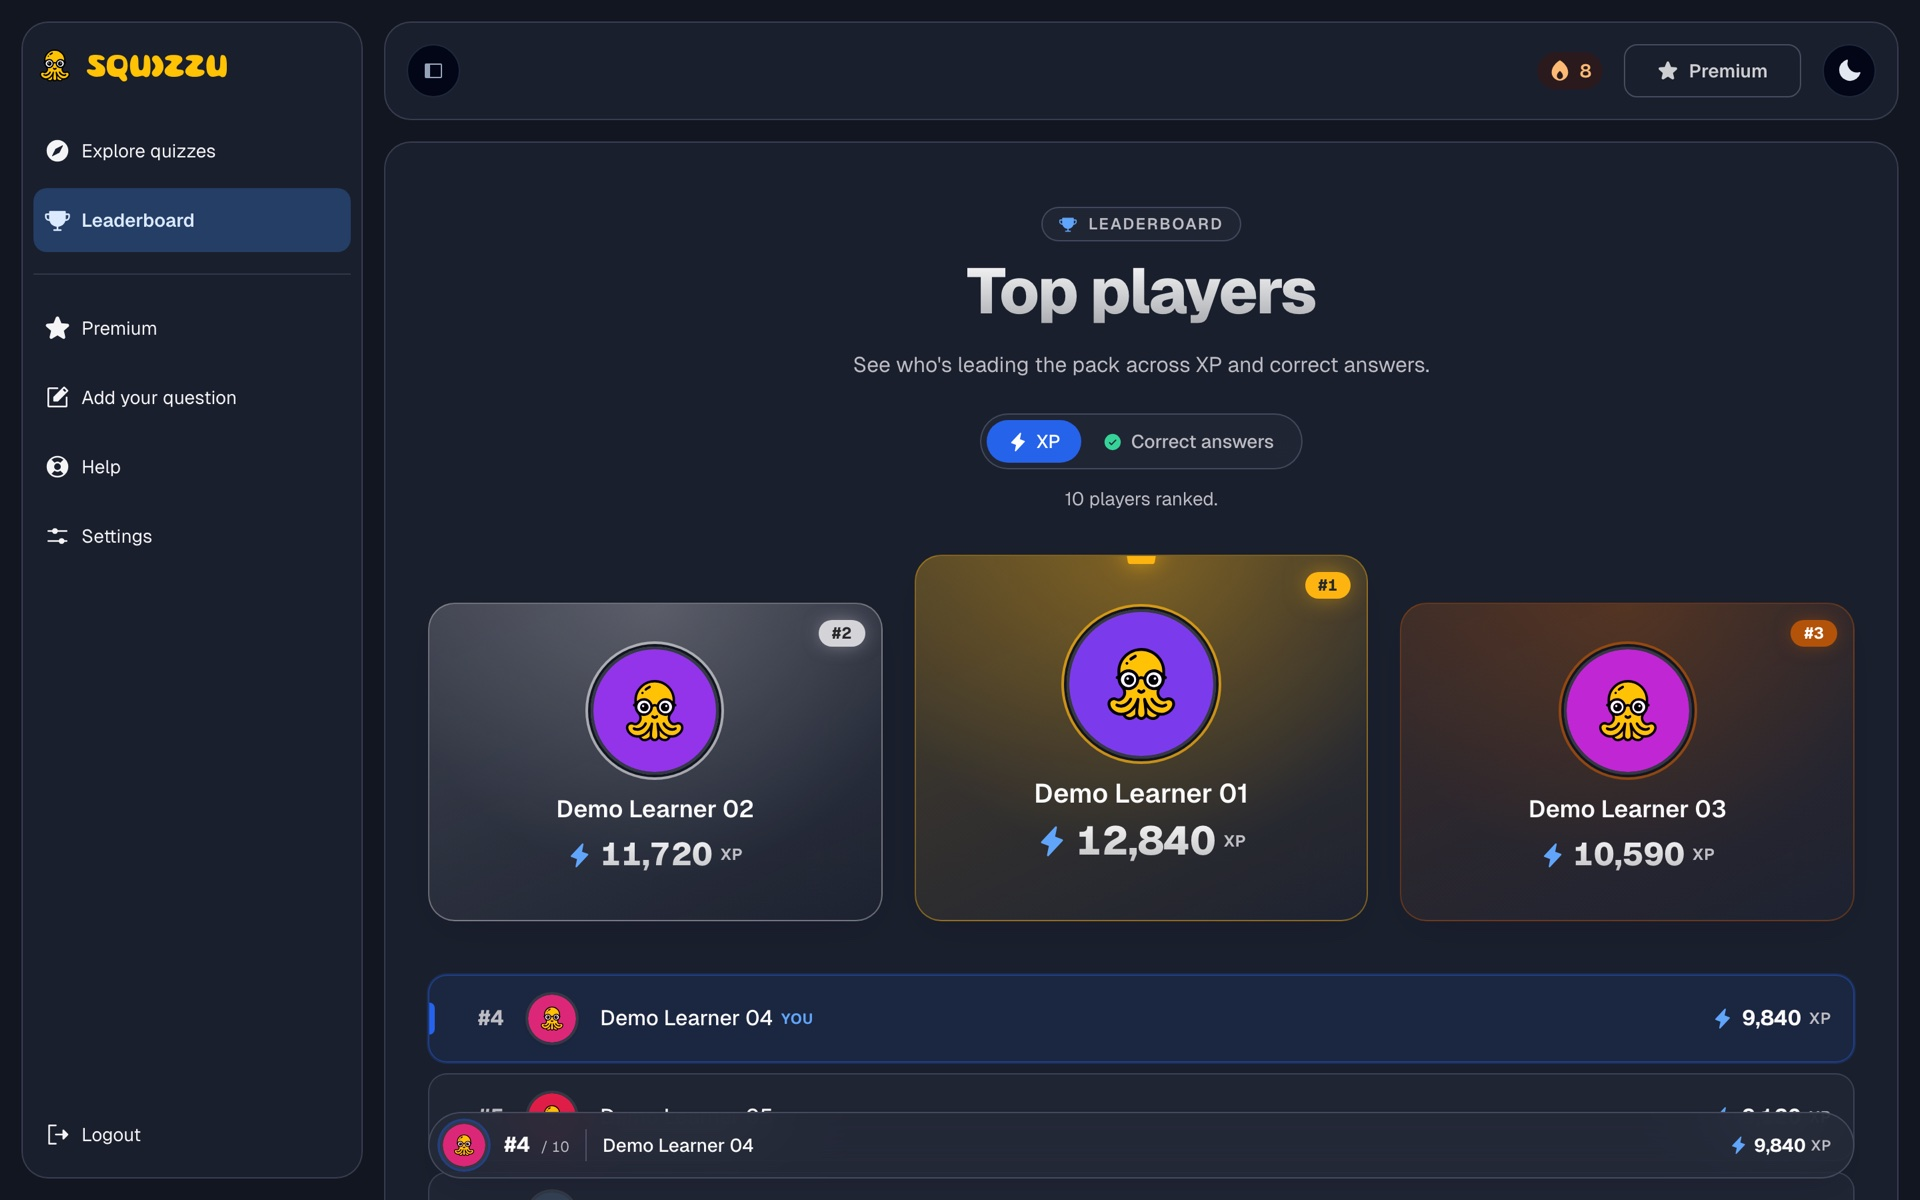
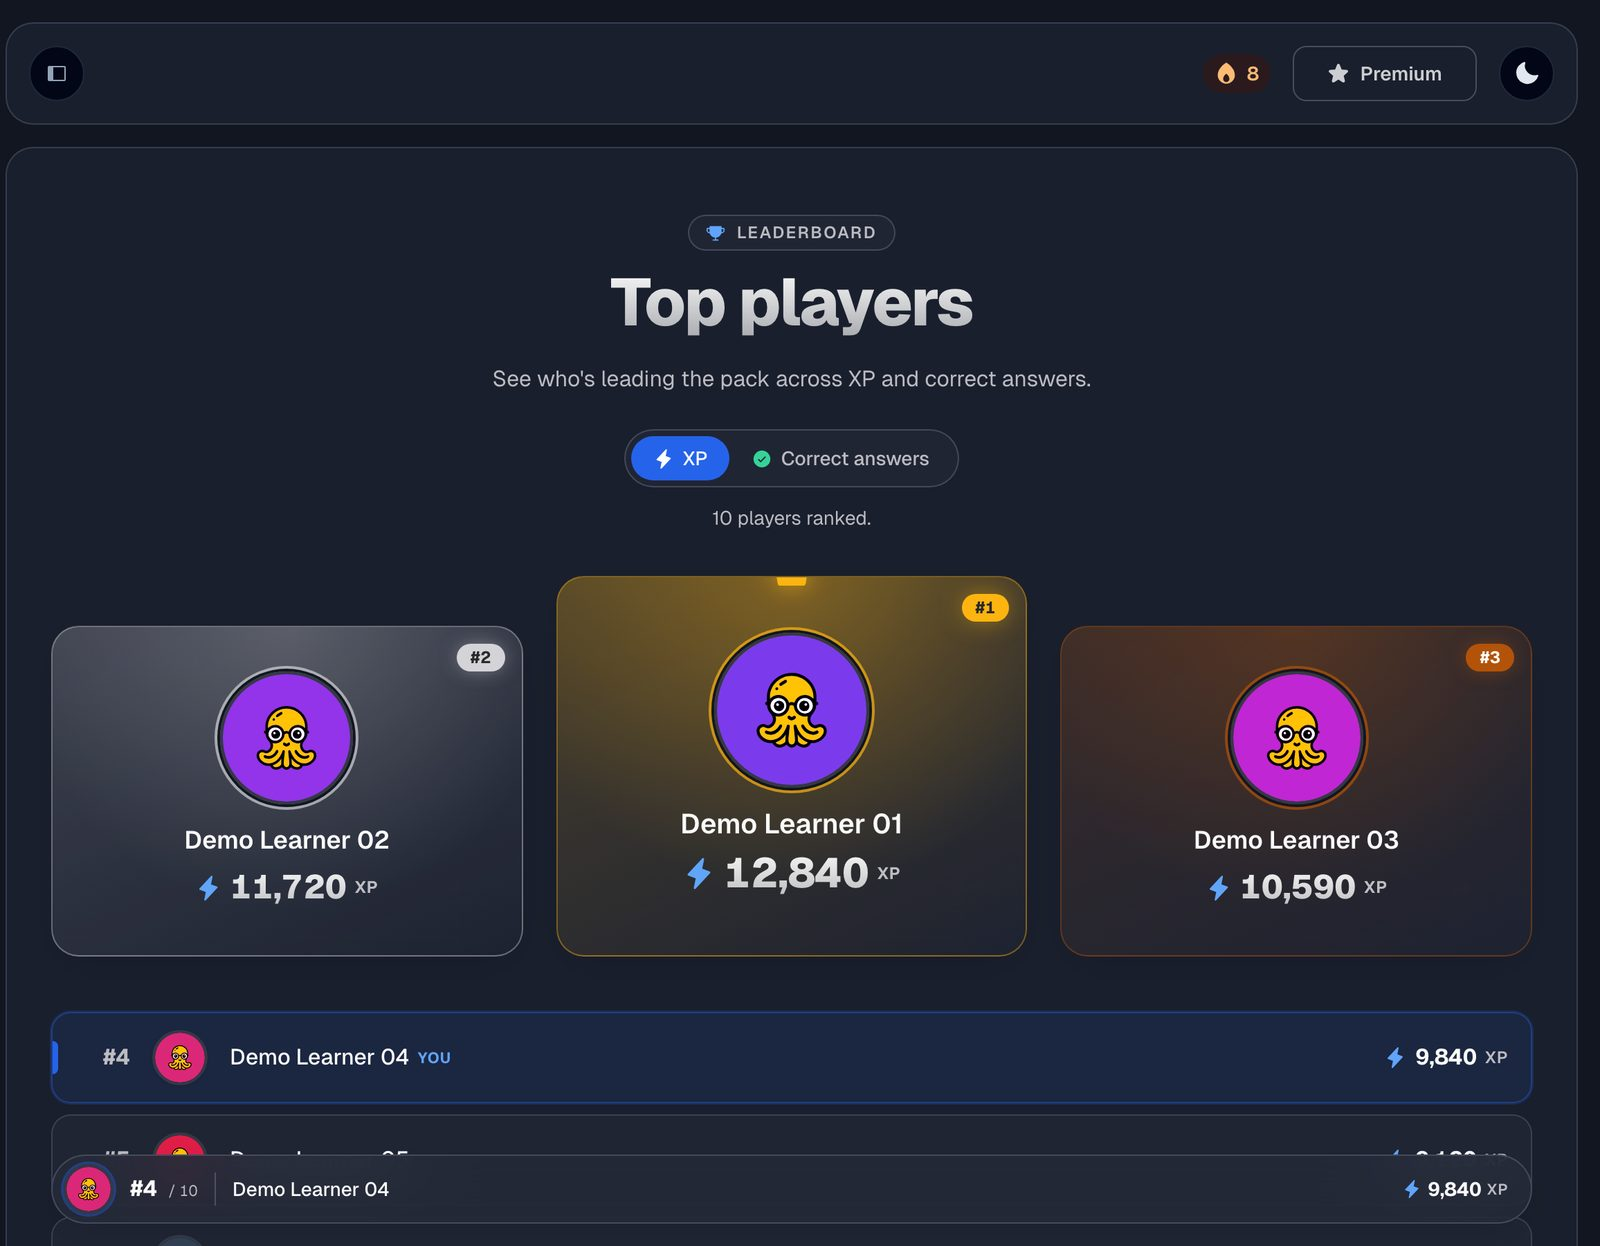
feat(squizzu): show the explore-quizzes view growing up
The case gains the story a single screen tells best: six frames of the
Explore quizzes view, from the first black-and-white wireframe, through
the guided three-step build-a-quiz wizard, to the shipped searchable
directory of the whole technology taxonomy. Each frame carries a note
on what that step tried, and the last one is tagged as the final. The
iteration grid is a new, reusable piece of the process section, so any
case with a drawn history can tell one.

Three of the mock frames carried a signed-in profile with a
photographic avatar and a real-looking name; those corners are blurred
in the shipped assets, the same rule as everywhere else in this
portfolio: no real people in demo material.

The app captures are also re-cut. The old frames dragged the full
sidebar along and the question screen was grabbed mid-scroll, so the
question itself was missing; the new cuts start at the content column
and the question frame now runs from the question header through the
explanation, a third larger in the same column.

diff --git a/data/case-studies.ts b/data/case-studies.ts
@@ -141,7 +141,19 @@ export type UxCaseStudy = {
     diagram?: CaseMedia | { component: string };
   };
 
-  process?: { note: L10n; media: CaseMedia[] };
+  process?: {
+    note: L10n;
+    media: CaseMedia[];
+    iterations?: {
+      note: L10n;
+      frames: {
+        src: string;
+        alt: L10n;
+        note?: L10n;
+        final?: boolean;
+      }[];
+    };
+  };
 
   decisions: CaseDecision[];
 
@@ -214,6 +226,86 @@ export const caseStudies: Partial<Record<ProjectId, UxCaseStudy>> = {
         en: "The design system wasn't borrowed, it was built in Adobe XD: a fixed palette (from warm ambers #FFCD5D and #FDB410 to near-blacks), a shared asset library, and a second-generation landing page drawn out in both light and dark. Over a hundred responsive screens and custom icons.",
       },
       media: [],
+      /**
+       * Historia jednego widoku od szkicu po wdrożenie. Na klatkach 3-5
+       * profil zalogowanego użytkownika jest rozmyty: makiety niosły
+       * fotograficzny awatar i realnie brzmiące nazwisko.
+       */
+      iterations: {
+        note: {
+          pl: "Widok Explore quizzes przerysowałem od pierwszego szkicu o niskiej wierności aż po wersję wdrożoną. Na sześciu klatkach przechodzi od płaskiej siatki wyróżnionych kafelków, przez prowadzony, trzykrokowy kreator quizu, po jeden przeszukiwalny katalog całej taksonomii technologii.",
+          en: "I redrew the Explore quizzes view from the first low-fidelity wireframe to the shipped screen. Across six frames it moves from a flat grid of featured cards, through a guided three-step build-a-quiz wizard, to a single searchable directory of the whole technology taxonomy.",
+        },
+        frames: [
+          {
+            src: "/projects/squizzu/iterations/iter-1.jpg",
+            alt: {
+              pl: "Szkic o niskiej wierności w czerni i bieli, z paskiem wyszukiwania u góry i trzema opisanymi rzędami pustych kafelków z placeholderami.",
+              en: "A low-fidelity black-and-white wireframe with a top search bar and three labelled rows of plain placeholder cards.",
+            },
+            note: {
+              pl: "Pierwszy szkic układa pomysł w czerni i bieli: trzy rzędy jeden pod drugim (kategorie, ścieżki i języki), każdy jako rząd czterech wyróżnionych kafelków i przycisku Explore all.",
+              en: "The first wireframe sets the idea in black and white: three stacked rows (categories, paths and languages), each a row of four featured cards plus an Explore all.",
+            },
+          },
+          {
+            src: "/projects/squizzu/iterations/iter-2.jpg",
+            alt: {
+              pl: "Kolorowa makieta z żółto akcentowanymi rzędami Categories, Career paths i Languages, wypełnionymi kartami z dużą ilością tekstu.",
+              en: "A colour mock-up with yellow-accented Categories, Career paths and Languages rows of text-rich cards.",
+            },
+            note: {
+              pl: "Dochodzi żółta marka i realna treść: stanowiska, technologie, wynagrodzenie, pytania i zastosowania, plus kilka wariantów nagłówka karty w rzędach przewijanych poziomo.",
+              en: "The yellow brand and real content arrive: positions, technologies, salary, questions and use cases, with a few card-header treatments tried on horizontally scrolling rows.",
+            },
+          },
+          {
+            src: "/projects/squizzu/iterations/iter-3.jpg",
+            alt: {
+              pl: "Aplikacja z ikonowym paskiem bocznym i górnym paskiem, rzędem ilustrowanych kart Choose a category z liczbą podkategorii oraz rzędem zaznaczalnych chipów tagów poniżej.",
+              en: "The app with an icon sidebar and top bar, a Choose a category row of illustrated cards with sub-category counts, and a row of selectable technology tag chips below.",
+            },
+            note: {
+              pl: "Widok wchodzi do prawdziwej powłoki aplikacji z paskiem bocznym, a przeglądanie zamienia się w tworzenie quizu: wybierz ilustrowaną kategorię, potem zaznacz tagi technologii.",
+              en: "The view moves into the real app shell with a sidebar, and browsing turns into building a quiz: pick an illustrated category, then toggle technology tags.",
+            },
+          },
+          {
+            src: "/projects/squizzu/iterations/iter-4.jpg",
+            alt: {
+              pl: "Ta sama aplikacja z trzema ponumerowanymi krokami ułożonymi w pionie, każdy z ilustrowanymi kartami do wyboru lub chipami tagów, a wybrany element obramowany na żółto.",
+              en: "The same app showing three numbered steps stacked down the page, each with illustrated selectable cards or tag chips, and a selected item outlined in yellow.",
+            },
+            note: {
+              pl: "Przepływ nazwany wprost: Step 1, 2 i 3 na jednej stronie, z podpowiedzią i spójnym zaznaczaniem, tak by kategoria, specjalizacja i tag czytały się jako trzy wyraźne poziomy.",
+              en: "The flow made explicit: Steps 1, 2 and 3 on one page, with a helper line and consistent selection, so category, specialisation and tag read as three clear tiers.",
+            },
+          },
+          {
+            src: "/projects/squizzu/iterations/iter-5.jpg",
+            alt: {
+              pl: "Widok krokowy z opisanym paskiem bocznym (Dashboard, Explore Quizzes, My Progress) i kartami pokazującymi plakietkę z liczbą i rząd podpowiadanych tagów.",
+              en: "The stepped view with a labelled sidebar (Dashboard, Explore Quizzes, My Progress) and cards that each show a count badge and a row of preview sub-tags.",
+            },
+            note: {
+              pl: "Pasek boczny dostaje czytelne etykiety, a każda karta zapowiada swoją zawartość: plakietkę z liczbą i pasek podkategorii, żeby przed wyborem było widać, co kryje dana opcja.",
+              en: "The sidebar gains readable labels and every card previews its contents: a count badge plus a strip of the sub-categories inside, so a choice shows what it holds before you commit.",
+            },
+          },
+          {
+            src: "/projects/squizzu/iterations/iter-6.jpg",
+            final: true,
+            alt: {
+              pl: "Finalna strona Explore quizzes z nagłówkiem What do you want to practice?, paskiem wyszukiwania, zakładkami filtrów domen i przeglądalnym indeksem technologii z liczbą sekcji.",
+              en: "The final Explore quizzes page headed What do you want to practice?, with a search bar, domain filter tabs, and a browsable index of technologies with section counts.",
+            },
+            note: {
+              pl: "Wersja wdrożona porzuca liniowy kreator na rzecz jednego przeszukiwalnego katalogu: wyszukiwarka i filtry domen z licznikami nad pełną taksonomią, od domeny przez specjalizację po technologię.",
+              en: "The shipped screen drops the linear wizard for one searchable directory: search and domain filters with counts above the full taxonomy, from domain through specialisation to technology.",
+            },
+          },
+        ],
+      },
     },
     decisions: [
       {

diff --git a/components/case-study/CaseStudyBody.tsx b/components/case-study/CaseStudyBody.tsx
@@ -38,6 +38,7 @@ const sectionCopy = {
   discovery: { pl: "Rozpoznanie", en: "Discovery" },
   architecture: { pl: "Architektura", en: "Architecture" },
   process: { pl: "Proces", en: "Process" },
+  iterationsTitle: { pl: "Iteracje", en: "Iterations" },
   decisions: { pl: "Decyzje projektowe", en: "Design decisions" },
   solution: { pl: "Rozwiązanie", en: "The solution" },
   outcome: { pl: "Wynik", en: "Outcome" },
@@ -474,6 +475,43 @@ export default function CaseStudyBody({
                   <MediaFigure key={media.src} media={media} />
                 ))}
               </div>
+            ) : null}
+            {study.process.iterations ? (
+              <>
+                <SubHeading>{sectionCopy.iterationsTitle[lang]}</SubHeading>
+                <Prose>{study.process.iterations.note[lang]}</Prose>
+                <ol className="mt-5 grid gap-4 sm:grid-cols-2">
+                  {study.process.iterations.frames.map((frame, index) => (
+                    <li key={`${frame.src}-${index}`} className="min-w-0">
+                      <div className="relative aspect-[16/10] overflow-hidden rounded-xl border border-line/70">
+                        {/* eslint-disable-next-line @next/next/no-img-element */}
+                        <img
+                          src={frame.src}
+                          alt={frame.alt[lang]}
+                          loading="lazy"
+                          className="h-full w-full object-cover object-top"
+                        />
+                        <span
+                          aria-hidden
+                          className="absolute left-2 top-2 flex h-[22px] w-[22px] items-center justify-center rounded-full bg-accent text-[11px] font-bold text-white ring-2 ring-white"
+                        >
+                          {index + 1}
+                        </span>
+                      </div>
+                      {frame.note || frame.final ? (
+                        <p className="mt-2 text-[12.5px] leading-snug text-ink/75">
+                          {frame.note?.[lang]}
+                          {frame.final ? (
+                            <span className="ml-1 font-semibold text-accent">
+                              · {sectionCopy.finalTag[lang]}
+                            </span>
+                          ) : null}
+                        </p>
+                      ) : null}
+                    </li>
+                  ))}
+                </ol>
+              </>
             ) : null}
           </>
         ) : null}
